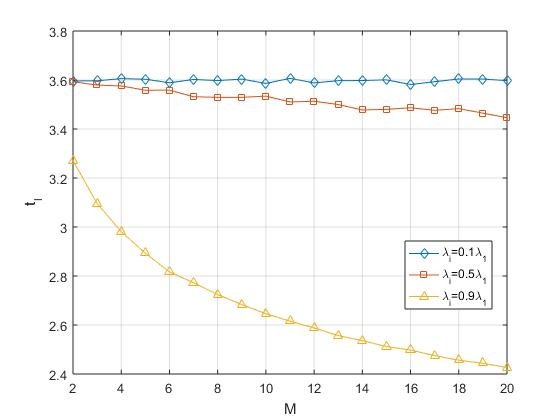
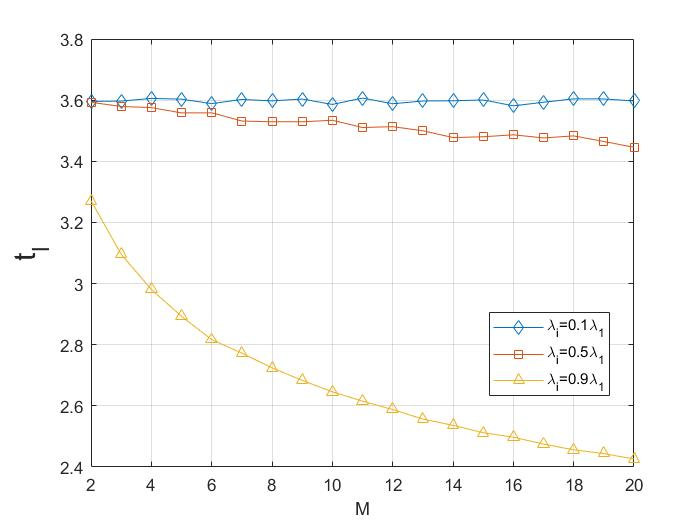
add phasetype rv

diff --git a/plot_krrt.m b/plot_krrt.m
@@ -1,11 +1,17 @@
 %% Performance
-%%M = [1:20];
+%M = [2:20];
 M = [1:20];
 
 %figure3a
-%case_1 = [1.0000	1.0000	1.0000	1.0000	1.0000	1.0000	1.0000	1.0000	1.0000	1.0000	1.0000	1.0000	1.0000	1.0000	1.0000	1.0000	1.0000	1.0000	1.0000	1.0000];
-%case_2 = [1.0000	0.9777	0.9617	0.9389	0.9308	0.9146	0.9075	0.8967	0.8798	0.8625	0.8602	0.8481	0.8443	0.8319	0.8249	0.8235	0.8131	0.8037	0.7961	0.7893];
-%case_3 = [1.0000	0.6245	0.4661	0.3672	0.3086	0.2696	0.2434	0.2180	0.1985	0.1881	0.1636	0.1535	0.1423	0.1403	0.1236	0.1243	0.1153	0.1115	0.1017	0.1032];
+case_1 = [1.0000	1.0000	1.0000	1.0000	1.0000	1.0000	1.0000	1.0000	1.0000	1.0000	1.0000	1.0000	1.0000	1.0000	1.0000	1.0000	1.0000	1.0000	1.0000	1.0000];
+case_2 = [1.0000	0.9777	0.9617	0.9389	0.9308	0.9146	0.9075	0.8967	0.8798	0.8625	0.8602	0.8481	0.8443	0.8319	0.8249	0.8235	0.8131	0.8037	0.7961	0.7893];
+case_3 = [1.0000	0.6245	0.4661	0.3672	0.3086	0.2696	0.2434	0.2180	0.1985	0.1881	0.1636	0.1535	0.1423	0.1403	0.1236	0.1243	0.1153	0.1115	0.1017	0.1032];
+
+%figure3b
+%case_1 = [3.595912	3.596859	3.605738	3.603190	3.588576	3.602278	3.597676	3.603642	3.585955	3.606814	3.588180	3.597259	3.597944	3.600614	3.581404	3.593054	3.604306	3.603894	3.597301];
+%case_2 = [3.592970	3.579257	3.575621	3.558288	3.558557	3.531675	3.529150	3.529150	3.534196	3.510468	3.513256	3.499822	3.477614	3.480220	3.486639	3.476389	3.483112	3.464689	3.445879];
+%case_3 = [3.270935	3.095795	2.980777	2.893049	2.816515	2.772608	2.724253	2.683347	2.646104	2.615389	2.587974	2.556911	2.536239	2.512154	2.497473	2.475060	2.456295	2.443708	2.426302];
+
 
 %figure2b
 %case_1 = [0.587104	1.204088	1.798780	2.402276	3.000693	3.586014	4.182395	4.791425	5.393690	5.958354	6.596322	7.205492	7.807874	8.415278	9.011809	9.606611	10.216882	10.839685	11.415692	11.984963];
@@ -13,9 +19,9 @@ M = [1:20];
 %case_3 = [0.284555	0.750875	1.263566	1.790892	2.336138	2.886391	3.451325	4.009783	4.592388	5.168812	5.735232	6.320723	6.895207	7.479310	8.075966	8.663408	9.255194	9.837188	10.425130	11.043345];
 
 %figure2a
-case_1 = [0.9758	0.9994	1.0000	1.0000	1.0000	1.0000	1.0000	1.0000	1.0000	1.0000	1.0000	1.0000	1.0000	1.0000	1.0000	1.0000	1.0000	1.0000	1.0000	1.0000];
-case_2 = [0.5044	0.6672	0.7683	0.8470	0.8927	0.9328	0.9514	0.9645	0.9757	0.9827	0.9874	0.9926	0.9951	0.9963	0.9975	0.9982	0.9990	0.9995	0.9996	0.9998];
-case_3 = [0.2381	0.2578	0.2775	0.2908	0.2988	0.3142	0.3220	0.3339	0.3442	0.3537	0.3606	0.3673	0.3822	0.3890	0.3963	0.4026	0.4146	0.4274	0.4273	0.4204];
+%case_1 = [0.9758	0.9994	1.0000	1.0000	1.0000	1.0000	1.0000	1.0000	1.0000	1.0000	1.0000	1.0000	1.0000	1.0000	1.0000	1.0000	1.0000	1.0000	1.0000	1.0000];
+%case_2 = [0.5044	0.6672	0.7683	0.8470	0.8927	0.9328	0.9514	0.9645	0.9757	0.9827	0.9874	0.9926	0.9951	0.9963	0.9975	0.9982	0.9990	0.9995	0.9996	0.9998];
+%case_3 = [0.2381	0.2578	0.2775	0.2908	0.2988	0.3142	0.3220	0.3339	0.3442	0.3537	0.3606	0.3673	0.3822	0.3890	0.3963	0.4026	0.4146	0.4274	0.4273	0.4204];
 
 i = i+1;
 figure(i)
@@ -26,6 +32,6 @@ hold on
 plot(M,case_3,'-^')
 hold on
 xlabel('M')
-ylabel('\alpha')
+ylabel('\alpha', 'FontSize', 18)
 legend('\lambda_i=0.1\lambda_1','\lambda_i=0.5\lambda_1','\lambda_i=0.9\lambda_1')
 grid on

diff --git a/Phase_Type_RV.m b/Phase_Type_RV.m
@@ -1,0 +1,66 @@
+clear all
+
+%% Parameters
+k = 3; % #Zi
+m = 15; % size of alpha
+lambda = [5 4 3 2 1];
+
+%% Initialize alpha
+a = [ones(k,1) zeros(k,m-1)];
+
+%% Generate Ti
+% Jordan form: tril(triu(ones(m)),1)
+
+Ti = []; % 3D matrix
+
+for i = 1:k
+    
+   Ti(:,:,i) = lambda(i) * ( tril(triu(ones(m)),1)+eye(m)*(-2) );
+   
+end
+
+
+%% Compute alpha by Kronecker Product
+alpha = a(1,:);
+
+for i = 2:k
+    
+    alpha = kron(alpha,a(i,:));
+    
+end
+
+%% Compute T by Kronecker Sum
+T = Ti(:,:,1);
+
+for i = 2:k
+
+    [r,s] = size(T);
+    [p,q] = size(Ti(:,:,i));
+    
+    T = kron( T,eye(p) ) + kron( eye(r),Ti(:,:,i) );
+    
+end
+
+%% Probability
+[m,n] = size(T);
+tmin = 0;
+tmax = 10;
+step = 0.25;
+t = [tmin:step:tmax];
+
+for i = 1:(tmax-tmin)/step +1 
+    
+    P(i) = 1 - alpha*expm(T*t(i))*ones(m,1);
+    X = sprintf('%f , %f',t(i),P(i));
+    disp(X)
+
+end
+
+
+%% Plot
+plot(t,P,'-o')
+grid on
+xlabel('t')
+ylabel('P')
+
+
